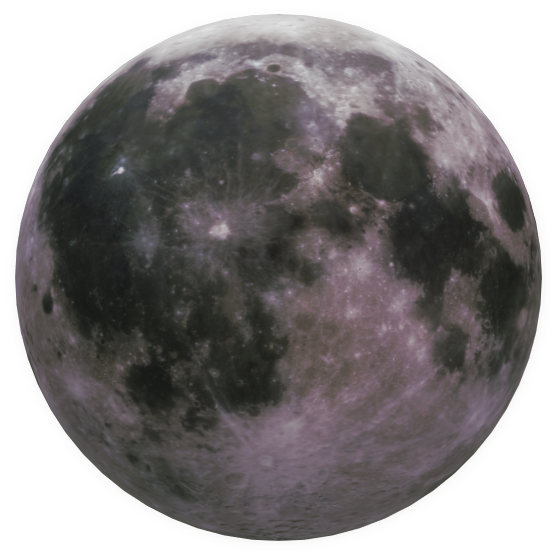
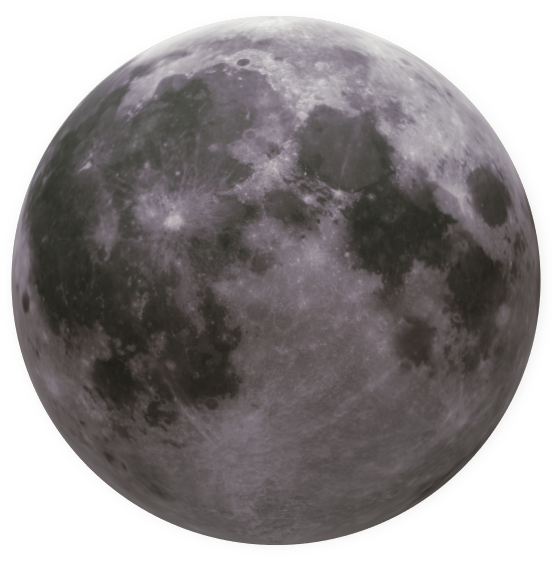
changing spotlight

diff --git a/css/index.css b/css/index.css
@@ -236,13 +236,13 @@ a:active {
 
 .moon {
   position: absolute;
-  width: 80%;
+  width: 76%;
   margin-left: auto;
   margin-right: auto;
   left: 0;
   right: 0;
   
-  filter: drop-shadow(0px 0px 120px #ffffff);
+  filter: drop-shadow(0px 0px 140px #fcccff);
   z-index: 0;
   
 }
@@ -307,16 +307,17 @@ a:active {
   z-index: 1;
   width: 100%;
   height: 100%;
-  filter: blur(4rem) brightness(80%);
+  filter: blur(0.5rem) brightness(200%);
 
-  border-radius: 6%;
+  border-radius: 50%;
   position: absolute;
-  top: 5%;
+  top: 0;
   left: 0;
   right: 0;
   bottom: 0;
-  background: radial-gradient(circle, #200331, transparent  1%) center / 200%,
-    radial-gradient(circle, #330649dc, #2a0331c0 200%) center / 100% 100%;
+  background: radial-gradient(circle, #380644, transparent  250%) center / 150%,
+    radial-gradient(circle, #39084d6b, #590f68d7 150%) center / 50% 150%, radial-gradient(square, #360342, transparent  500%) center / 10%,
+    radial-gradient(ellipse, #39084d6b, #910dacd7 150%) center / 10% 10%;
   mix-blend-mode: color-dodge;
 }
 
@@ -324,15 +325,15 @@ a:active {
 .spotlight2 {
   z-index: 100;
   margin: 0 auto;
-  filter: blur(4rem) brightness(110%);
+  filter: blur(8rem) brightness(200%);
   position: absolute;
-  top: 5%;
-  left: 0%;
+  top: 0;
+  left: 0;
   right: 0;
   bottom: 0;
-  background: radial-gradient(circle, rgb(69, 21, 90), rgb(52, 15, 61)) center /
-    10% 150%;
-  mix-blend-mode: color-dodge;
+  background: radial-gradient(circle, rgba(65, 8, 75, 0.236), rgb(58, 13, 71)) center /
+    1% 1%;
+  mix-blend-mode: color;
 }
 
 .second-section-title {

diff --git a/index.html b/index.html
@@ -57,7 +57,7 @@
       <div id="stars"></div>
         <span class="spotlight2"></span>
         <div class="container">
-          <img width="600px" class="moon" src="/assets/newmoon.webp" alt="">
+          <img width="600px" class="moon" src="/assets/newmoon2.webp" alt="">
           <span class="spotlight"></span>
         </div>
         <div class="content">
